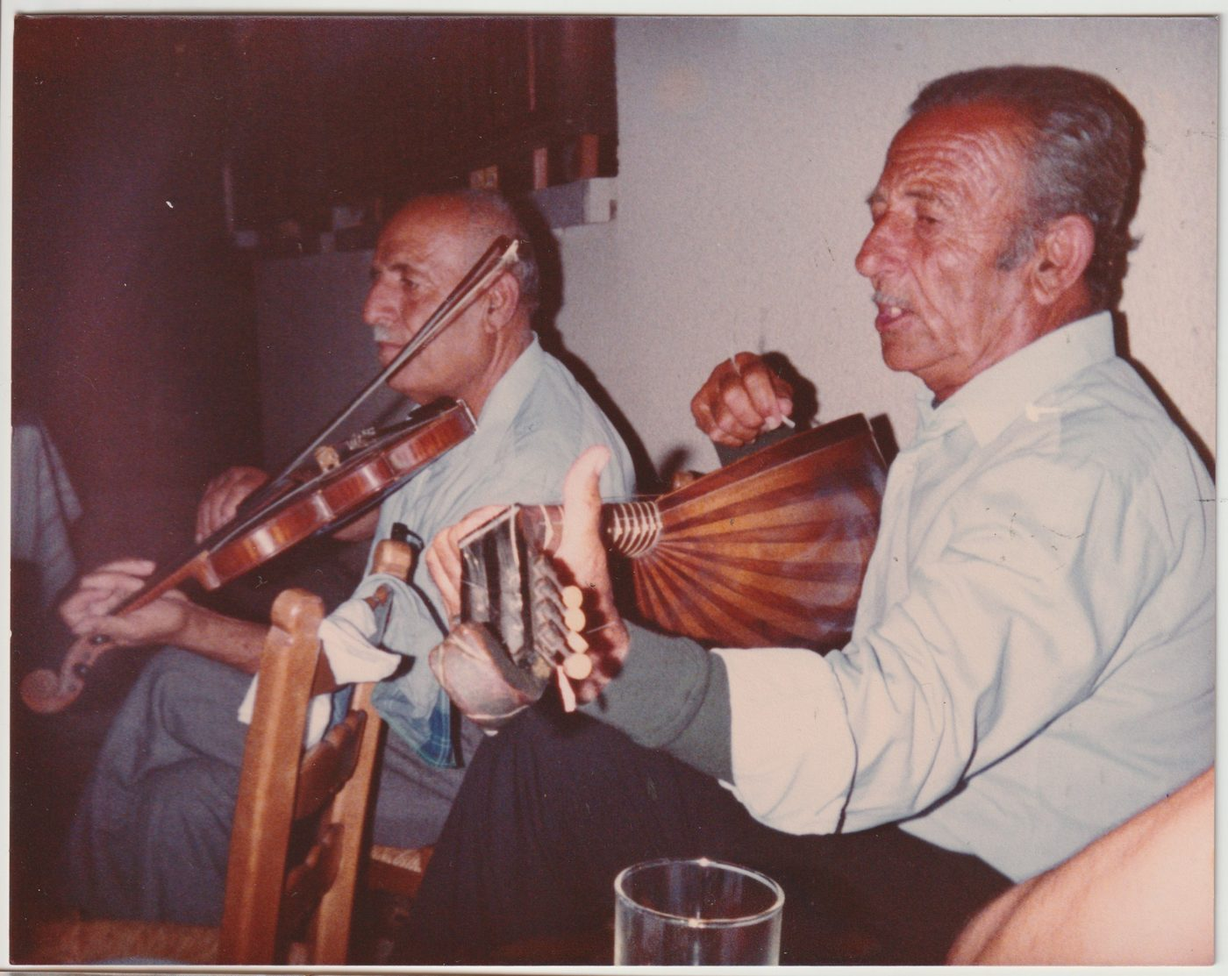
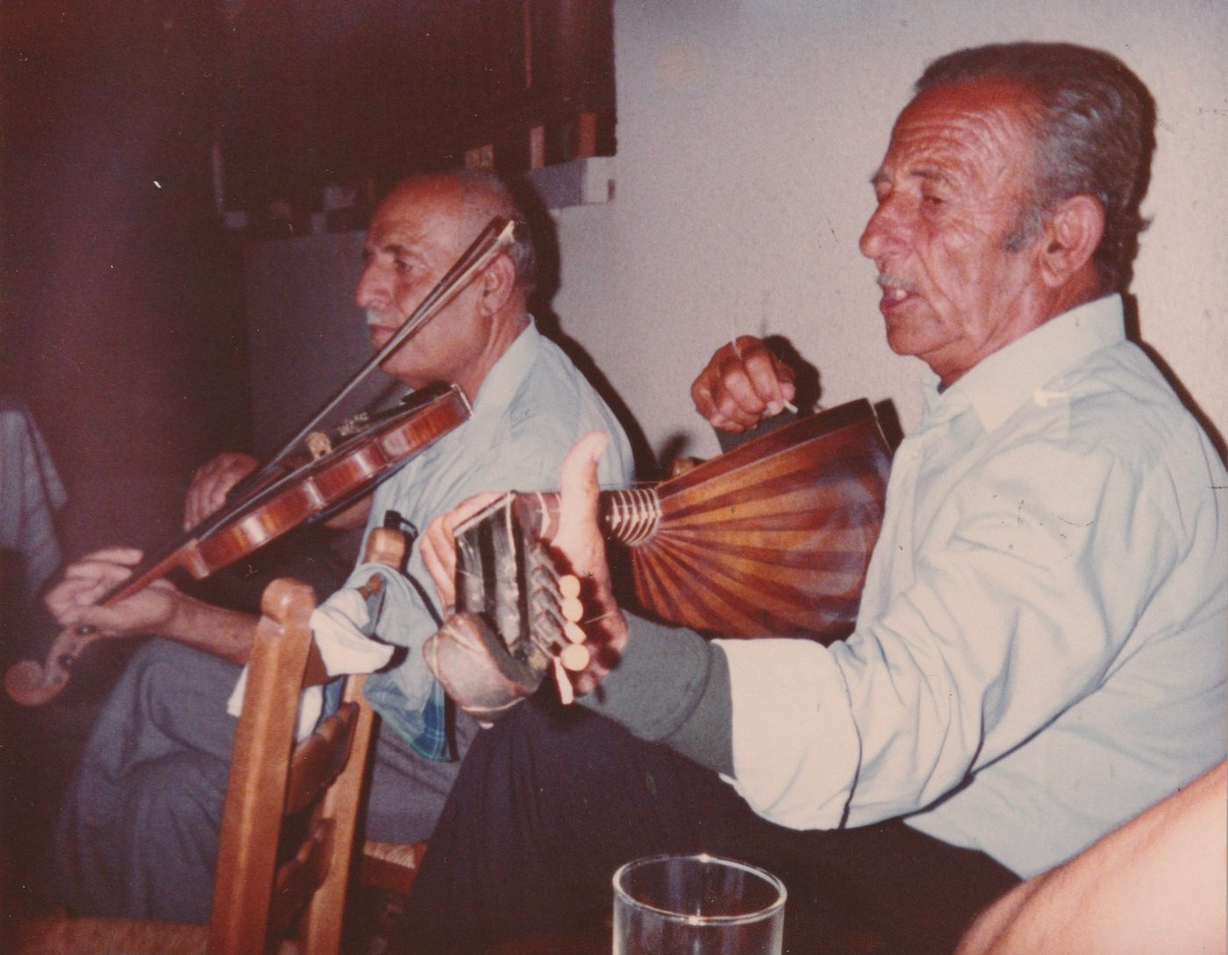
designer feedback: booklet photo crops, final cover, no breaks in credit names

Changed region(s): [[0.0, 0.0, 1.0, 1.0], [0.86, 0.4995, 0.9521, 0.5932], [0.1843, 0.2185, 0.215, 0.2498]]

diff --git a/index.html b/index.html
@@ -59,8 +59,8 @@
     <section class="hero">
       <div class="hero-in">
         <h1 class="cover-title">
-          <img class="cover" src="images/cover.jpg" width="1400" height="1689"
-               alt="Το χώμαν · soil — Συμεών Μερκούρης, Στέλιος Παπαμιχαήλ">
+          <img class="cover" src="images/cover.jpg" width="1400" height="1835"
+               alt="το χώμαν · soil — Συμεών Μερκούρης, Στέλιος Παπαμιχαήλ · Symeon Mercouris, Stelios Papamichael">
         </h1>
       </div>
     </section>
@@ -102,32 +102,32 @@
       <span class="orn a" aria-hidden="true"></span>
       <h2><span lang="el">Συντελεστές</span><span lang="en">Contributors</span></h2>
       <div lang="el">
-        <ul class="roles"><li><span class="k">Μουσική επιμέλεια:</span> Συμεών Μερκούρης, Στέλιος Παπαμιχαήλ</li><li><span class="k">Παραγωγή/διασκευές/ανασυνθέσεις/ενορχηστρώσεις:</span> Συμεών Μερκούρης</li></ul>
+        <ul class="roles"><li><span class="k">Μουσική επιμέλεια:</span> Συμεών&nbsp;Μερκούρης, Στέλιος&nbsp;Παπαμιχαήλ</li><li><span class="k">Παραγωγή/διασκευές/ανασυνθέσεις/ενορχηστρώσεις:</span> Συμεών&nbsp;Μερκούρης</li></ul>
         <h3>Μουσικοί</h3>
-        <ul class="people"><li><b>Συμεών Μερκούρης</b><span class="r">Φωνή, λαούτο (Δ1* κομμάτι 2, 4, 6 Δ2** κομ. 3, 5), κρητικό λαούτο (Δ1 κομ. 8)</span></li><li><b>Στέλιος Παπαμιχαήλ</b><span class="r">Φωνή, λύρα (Δ1 κομ. 2, 4, 8 Δ2 κομ. 1, 3, 9) λαούτο (Δ1 κομ. 5, 8 Δ2 κομ. 2, 4, 8), κρητικό λαούτο (Δ1 κομ. 3)</span></li><li><b>Νικολέττα Δημητρίου</b><span class="r">Φωνή (Δ2 κομ. 5)</span></li><li><b>Παύλος Μιχαηλίδης</b><span class="r">Βιολί (Δ1 κομ. 5, 6 Δ2 κομ. 2, 8)</span></li><li><b>Εύρος Βοσκαρίδης</b><span class="r">Βιολί (Δ2 κομ. 4)</span></li><li><b>Χριστίνα Πολυκάρπου</b><span class="r">Λύρα (Δ2 κομ. 5)</span></li><li><b>Χαράλαμπος Παντελή</b><span class="r">Ταμπουράς (Δ1 κομ. 7 Δ2 κομ. 5, 6), Σάζι (Δ1 κομ. 7), λαούτο (Δ1 κομ. 6)</span></li><li><b>Δημήτρης Πήχας</b><span class="r">Κοντραμπάσο (Δ2 κομ. 1, 4)</span></li><li><b>Κωνσταντίνα Ξενοφώντος</b><span class="r">Ταμπουτσ̆ά (Δ1 κομ. 4)</span></li></ul>
+        <ul class="people"><li><b>Συμεών Μερκούρης</b><span class="r">Φωνή, λαούτο (Δ1*&nbsp;κομμάτι&nbsp;2, 4, 6 Δ2**&nbsp;κομ.&nbsp;3, 5), κρητικό λαούτο (Δ1&nbsp;κομ.&nbsp;8)</span></li><li><b>Στέλιος Παπαμιχαήλ</b><span class="r">Φωνή, λύρα (Δ1&nbsp;κομ.&nbsp;2, 4, 8 Δ2&nbsp;κομ.&nbsp;1, 3, 9) λαούτο (Δ1&nbsp;κομ.&nbsp;5, 8 Δ2&nbsp;κομ.&nbsp;2, 4, 8), κρητικό λαούτο (Δ1&nbsp;κομ.&nbsp;3)</span></li><li><b>Νικολέττα Δημητρίου</b><span class="r">Φωνή (Δ2&nbsp;κομ.&nbsp;5)</span></li><li><b>Παύλος Μιχαηλίδης</b><span class="r">Βιολί (Δ1&nbsp;κομ.&nbsp;5, 6 Δ2&nbsp;κομ.&nbsp;2, 8)</span></li><li><b>Εύρος Βοσκαρίδης</b><span class="r">Βιολί (Δ2&nbsp;κομ.&nbsp;4)</span></li><li><b>Χριστίνα Πολυκάρπου</b><span class="r">Λύρα (Δ2&nbsp;κομ.&nbsp;5)</span></li><li><b>Χαράλαμπος Παντελή</b><span class="r">Ταμπουράς (Δ1&nbsp;κομ.&nbsp;7 Δ2&nbsp;κομ.&nbsp;5, 6), Σάζι (Δ1&nbsp;κομ.&nbsp;7), λαούτο (Δ1&nbsp;κομ.&nbsp;6)</span></li><li><b>Δημήτρης Πήχας</b><span class="r">Κοντραμπάσο (Δ2&nbsp;κομ.&nbsp;1, 4)</span></li><li><b>Κωνσταντίνα Ξενοφώντος</b><span class="r">Ταμπουτσ̆ά (Δ1&nbsp;κομ.&nbsp;4)</span></li></ul>
         <p class="legend">*Δίσκος 1 &nbsp;**Δίσκος 2</p>
         <h3>Φιλικές συμμετοχές</h3>
-        <ul class="people"><li><b>Αντώνης Πουλλής</b><span class="r">Φωνή (Δ1 κομ. 1)</span></li><li><b>Μιχάλης Πουλλής</b><span class="r">Φωνή (Δ2 κομ. 6)</span></li></ul>
+        <ul class="people"><li><b>Αντώνης Πουλλής</b><span class="r">Φωνή (Δ1&nbsp;κομ.&nbsp;1)</span></li><li><b>Μιχάλης Πουλλής</b><span class="r">Φωνή (Δ2&nbsp;κομ.&nbsp;6)</span></li></ul>
         <h3>Ηχοληψία και μάστερινγκ</h3>
-        <ul class="roles"><li><span class="k">Ηχογράφηση/μίξη:</span> Μικαέλα Τσαγγάρη (Elbow Room Studio)</li><li><span class="k">Μάστερινγκ:</span> Μπάρι Χατζ̆ήκυριακου (All Ears Mastering)</li></ul>
+        <ul class="roles"><li><span class="k">Ηχογράφηση/μίξη:</span> Μικαέλα&nbsp;Τσαγγάρη (Elbow&nbsp;Room&nbsp;Studio)</li><li><span class="k">Μάστερινγκ:</span> Μπάρι&nbsp;Χατζ̆ήκυριακου (All&nbsp;Ears&nbsp;Mastering)</li></ul>
         <h3>Κείμενα και επιμέλεια κειμένων</h3>
-        <ul class="roles"><li><span class="k">Έρευνα – κείμενα:</span> Συμεών Μερκούρης</li><li><span class="k">Επιμέλεια/διορθώσεις κυπριακών κειμένων – στίχων:</span> Νικολέττα Δημητρίου</li><li><span class="k">Μετάφραση κειμένων – στίχων:</span> Συμεών Μερκούρης</li><li><span class="k">Επιμέλεια/διορθώσεις μεταφρασμένων κειμένων – στίχων:</span> Δημήτρης Πήχας</li></ul>
+        <ul class="roles"><li><span class="k">Έρευνα – κείμενα:</span> Συμεών&nbsp;Μερκούρης</li><li><span class="k">Επιμέλεια/διορθώσεις κυπριακών κειμένων – στίχων:</span> Νικολέττα&nbsp;Δημητρίου</li><li><span class="k">Μετάφραση κειμένων – στίχων:</span> Συμεών&nbsp;Μερκούρης</li><li><span class="k">Επιμέλεια/διορθώσεις μεταφρασμένων κειμένων – στίχων:</span> Δημήτρης&nbsp;Πήχας</li></ul>
         <h3>Εικαστική επιμέλεια και σχεδιασμός</h3>
-        <ul class="roles"><li><span class="k">Χαρακτικό - πετρογραφία εξωφύλλου, λεπτομέρειες από χαρακτικά έργα στο ένθετο:</span> γιώργος Α. Κωνσταντίνου</li><li><span class="k">Γραφιστική επιμέλεια/σχεδιασμός:</span> Πόπη Πισσουρίου</li><li><span class="k">Φωτογραφίες:</span> Κατερίνα Δημητρίου</li><li><span class="k">Επιμέλεια φωτογραφιών:</span> Έμμα Λουίζ Χαραλάμπους</li><li><span class="k">Σχεδιασμός ιστοσελίδας:</span> Γιάννης Παχίτας</li></ul>
+        <ul class="roles"><li><span class="k">Χαρακτικό - πετρογραφία εξωφύλλου, λεπτομέρειες από χαρακτικά έργα στο ένθετο:</span> γιώργος Α.&nbsp;Κωνσταντίνου</li><li><span class="k">Γραφιστική επιμέλεια/σχεδιασμός:</span> Πόπη&nbsp;Πισσουρίου</li><li><span class="k">Φωτογραφίες:</span> Κατερίνα&nbsp;Δημητρίου</li><li><span class="k">Επιμέλεια φωτογραφιών:</span> Έμμα&nbsp;Λουίζ&nbsp;Χαραλάμπους</li><li><span class="k">Σχεδιασμός ιστοσελίδας:</span> Γιάννης&nbsp;Παχίτας</li></ul>
       </div>
       <div lang="en">
-        <ul class="roles"><li><span class="k">Musical direction:</span> Symeon Mercouris, Stelios Papamichael</li><li><span class="k">Production/arrangements/re-compositions/orchestration:</span> Symeon Mercouris</li></ul>
+        <ul class="roles"><li><span class="k">Musical direction:</span> Symeon&nbsp;Mercouris, Stelios&nbsp;Papamichael</li><li><span class="k">Production/arrangements/re-compositions/orchestration:</span> Symeon&nbsp;Mercouris</li></ul>
         <h3>Musicians</h3>
-        <ul class="people"><li><b>Symeon Mercouris</b><span class="r">Vocals, lute (D1* tracks 2, 4, 6; D2** tracks 3, 5), Cretan lute (D1 track 8)</span></li><li><b>Stelios Papamichael</b><span class="r">Vocals, lyra (D1 tracks 2, 4, 8; D2 tracks 1, 3, 9), lute (D1 tracks 5, 8; D2 tracks 2, 4, 8), Cretan lute (D1 track 3)</span></li><li><b>Nicoletta Demetriou</b><span class="r">Vocals (D2 track 5)</span></li><li><b>Pavlos Michaelides</b><span class="r">Violin (D1 tracks 5, 6; D2 tracks 2, 8)</span></li><li><b>Evros Voskarides</b><span class="r">Violin (D2 track 4)</span></li><li><b>Christina Polycarpou</b><span class="r">Lyra (D2 track 5)</span></li><li><b>Charalambos Panteli</b><span class="r">Tambouras (D1 track 7; D2 tracks 5, 6), saz (D1 track 7), lute (D1 track 6)</span></li><li><b>Dimitris Pichas</b><span class="r">Double bass (D2 tracks 1, 4)</span></li><li><b>Konstantina Xenofontos</b><span class="r">Percussion (D1, track 4)</span></li></ul>
+        <ul class="people"><li><b>Symeon Mercouris</b><span class="r">Vocals, lute (D1*&nbsp;tracks&nbsp;2, 4, 6; D2**&nbsp;tracks&nbsp;3, 5), Cretan lute (D1&nbsp;track&nbsp;8)</span></li><li><b>Stelios Papamichael</b><span class="r">Vocals, lyra (D1&nbsp;tracks&nbsp;2, 4, 8; D2&nbsp;tracks&nbsp;1, 3, 9), lute (D1&nbsp;tracks&nbsp;5, 8; D2&nbsp;tracks&nbsp;2, 4, 8), Cretan lute (D1&nbsp;track&nbsp;3)</span></li><li><b>Nicoletta Demetriou</b><span class="r">Vocals (D2&nbsp;track&nbsp;5)</span></li><li><b>Pavlos Michaelides</b><span class="r">Violin (D1&nbsp;tracks&nbsp;5, 6; D2&nbsp;tracks&nbsp;2, 8)</span></li><li><b>Evros Voskarides</b><span class="r">Violin (D2&nbsp;track&nbsp;4)</span></li><li><b>Christina Polycarpou</b><span class="r">Lyra (D2&nbsp;track&nbsp;5)</span></li><li><b>Charalambos Panteli</b><span class="r">Tambouras (D1&nbsp;track&nbsp;7; D2&nbsp;tracks&nbsp;5, 6), saz (D1&nbsp;track&nbsp;7), lute (D1&nbsp;track&nbsp;6)</span></li><li><b>Dimitris Pichas</b><span class="r">Double bass (D2&nbsp;tracks&nbsp;1, 4)</span></li><li><b>Konstantina Xenofontos</b><span class="r">Percussion (D1, track 4)</span></li></ul>
         <p class="legend">*D1 = Disc 1 &nbsp;**D2 = Disc 2</p>
         <h3>Guest appearances</h3>
-        <ul class="people"><li><b>Antonis Poullis</b><span class="r">Vocals (D1 track 1)</span></li><li><b>Michalis Poullis</b><span class="r">Vocals (D2 track 6)</span></li></ul>
+        <ul class="people"><li><b>Antonis Poullis</b><span class="r">Vocals (D1&nbsp;track&nbsp;1)</span></li><li><b>Michalis Poullis</b><span class="r">Vocals (D2&nbsp;track&nbsp;6)</span></li></ul>
         <h3>Recording and mastering</h3>
-        <ul class="roles"><li><span class="k">Recording and mixing:</span> Mikaela Tsangari (Elbow Room Studio)</li><li><span class="k">Mastering:</span> Bari Hadjikyriacou (All Ears Mastering)</li></ul>
+        <ul class="roles"><li><span class="k">Recording and mixing:</span> Mikaela&nbsp;Tsangari (Elbow&nbsp;Room&nbsp;Studio)</li><li><span class="k">Mastering:</span> Bari&nbsp;Hadjikyriacou (All&nbsp;Ears&nbsp;Mastering)</li></ul>
         <h3>Texts and editing</h3>
-        <ul class="roles"><li><span class="k">Research and texts:</span> Symeon Mercouris</li><li><span class="k">Editing/proofreading of texts and lyrics (Cypriot):</span> Nicoletta Demetriou</li><li><span class="k">Translation of texts and lyrics:</span> Symeon Mercouris</li><li><span class="k">Editing/proofreading of translated texts and lyrics (English):</span> Dimitris Pichas</li></ul>
+        <ul class="roles"><li><span class="k">Research and texts:</span> Symeon&nbsp;Mercouris</li><li><span class="k">Editing/proofreading of texts and lyrics (Cypriot):</span> Nicoletta&nbsp;Demetriou</li><li><span class="k">Translation of texts and lyrics:</span> Symeon&nbsp;Mercouris</li><li><span class="k">Editing/proofreading of translated texts and lyrics (English):</span> Dimitris&nbsp;Pichas</li></ul>
         <h3>Artwork and design</h3>
-        <ul class="roles"><li><span class="k">Album cover stone engraving; details from engraved works in the album booklet:</span> giorgos A. Konstantinou</li><li><span class="k">Graphic design:</span> Popi Pissouriou</li><li><span class="k">Photography:</span> Katerina Demetriou</li><li><span class="k">Photo editing:</span> Emma Louise Charalambous</li><li><span class="k">Website design:</span> Yiannis Pahitas</li></ul>
+        <ul class="roles"><li><span class="k">Album cover stone engraving; details from engraved works in the album booklet:</span> giorgos A.&nbsp;Konstantinou</li><li><span class="k">Graphic design:</span> Popi&nbsp;Pissouriou</li><li><span class="k">Photography:</span> Katerina&nbsp;Demetriou</li><li><span class="k">Photo editing:</span> Emma&nbsp;Louise&nbsp;Charalambous</li><li><span class="k">Website design:</span> Yiannis&nbsp;Pahitas</li></ul>
       </div>
     </section>
 
@@ -158,13 +158,13 @@
       <h2><span lang="el">Φωτογραφίες</span><span lang="en">Photos</span></h2>
       <p class="side lead"><span lang="el">Στιγμιότυπα από τις συνεντεύξεις (2024 - 2026)</span><span lang="en">Moments from the interviews (2024 - 2026)</span></p>
       <div class="gallery">
-        <figure aria-label="Μαζί με τον Μιχάλη Πουλλή (αριστερά) και τον Αντώνη Πουλλή (κέντρο)"><img src="images/interviews/17.jpg" width="1600" height="1067" loading="lazy" alt=""><figcaption><span lang="el">Μαζί με τον Μιχάλη Πουλλή (αριστερά) και τον Αντώνη Πουλλή (κέντρο)</span><span lang="en">With Michalis Poullis (left) and Antonis Poullis (centre)</span></figcaption></figure>
+        <figure aria-label="Μαζί με τον Μιχάλη Πουλλή (αριστερά) και τον Αντώνη Πουλλή (κέντρο)"><img src="images/interviews/17.jpg" width="1600" height="1061" loading="lazy" alt=""><figcaption><span lang="el">Μαζί με τον Μιχάλη Πουλλή (αριστερά) και τον Αντώνη Πουλλή (κέντρο)</span><span lang="en">With Michalis Poullis (left) and Antonis Poullis (centre)</span></figcaption></figure>
         <figure aria-label="Πρωινός καφές με τον Γιώργο Πουλλή στο σπίτι μου στο Τσέρι"><img src="images/interviews/18.jpg" width="1600" height="1067" loading="lazy" alt=""><figcaption><span lang="el">Πρωινός καφές με τον Γιώργο Πουλλή στο σπίτι μου στο Τσέρι</span><span lang="en">Morning coffee with Giorgos Poullis at my home in Tseri</span></figcaption></figure>
         <figure aria-label="Με την Ελένη Πιττάτζ̆η στο σπίτι της στο Παραλίμνι"><img src="images/interviews/19.jpg" width="1600" height="1067" loading="lazy" alt=""><figcaption><span lang="el">Με την Ελένη Πιττάτζ̆η στο σπίτι της στο Παραλίμνι</span><span lang="en">With Eleni Pittatzi at her home in Paralimni</span></figcaption></figure>
         <figure aria-label="Με τον Γιώργο Πριγκόπουλλο στο περβόλι του στην Άχνα"><img src="images/interviews/20.jpg" width="1600" height="1067" loading="lazy" alt=""><img src="images/interviews/21.jpg" width="1600" height="1067" loading="lazy" alt=""><img src="images/interviews/22.jpg" width="1600" height="1067" loading="lazy" alt=""><figcaption><span lang="el">Με τον Γιώργο Πριγκόπουλλο στο περβόλι του στην Άχνα</span><span lang="en">With Giorgos Prigkopoullos in his orchard in Achna</span></figcaption></figure>
         <figure aria-label="Με την Ελένη Πιττιρή Σαλούτα (κέντρο) και την Μαργαρίτα Πιττιρή Δημητρουδιού (δεξιά) στο σπίτι τους στο Παραλίμνι"><img src="images/interviews/23.jpg" width="1600" height="1067" loading="lazy" alt=""><figcaption><span lang="el">Με την Ελένη Πιττιρή Σαλούτα (κέντρο) και την Μαργαρίτα Πιττιρή Δημητρουδιού (δεξιά) στο σπίτι τους στο Παραλίμνι</span><span lang="en">With Eleni Pittiri Salouta (centre) and Margarita Pittiri Demetroudiou (right) at their home in Paralimni</span></figcaption></figure>
         <figure aria-label="Με την Μαρία Ττάκκα Δημητρίου στο περβόλι της στο Λιοπέτρι"><img src="images/interviews/24.jpg" width="1600" height="1067" loading="lazy" alt=""><figcaption><span lang="el">Με την Μαρία Ττάκκα Δημητρίου στο περβόλι της στο Λιοπέτρι</span><span lang="en">With Maria Ttakka Demetriou in her orchard in Liopetri</span></figcaption></figure>
-        <figure aria-label="Με τον Παναγιώτη Παναγιώτου στο σπίτι του στην Έμπα (Πετρίθκια)"><img src="images/interviews/25.jpg" width="1600" height="898" loading="lazy" alt=""><figcaption><span lang="el">Με τον Παναγιώτη Παναγιώτου στο σπίτι του στην Έμπα (Πετρίθκια)</span><span lang="en">With Panayiotis Panayiotou at his home in Empa (Petridia)</span></figcaption></figure>
+        <figure aria-label="Με τον Παναγιώτη Παναγιώτου στο σπίτι του στην Έμπα (Πετρίθκια)"><img src="images/interviews/25.jpg" width="1600" height="1061" loading="lazy" alt=""><figcaption><span lang="el">Με τον Παναγιώτη Παναγιώτου στο σπίτι του στην Έμπα (Πετρίθκια)</span><span lang="en">With Panayiotis Panayiotou at his home in Empa (Petridia)</span></figcaption></figure>
         <figure aria-label="Με τον Παναγιώτη Παναγιώτου ακούγοντας την Φωνή Παφίτισσα όπως την ηχογραφήσαμε"><img src="images/interviews/26.jpg" width="1600" height="1066" loading="lazy" alt=""><figcaption><span lang="el">Με τον Παναγιώτη Παναγιώτου ακούγοντας την Φωνή Παφίτισσα όπως την ηχογραφήσαμε</span><span lang="en">With Panayiotis Panayiotou listening to the Pafitissa Tune as we recorded it</span></figcaption></figure>
         <figure aria-label="Με τον Παναγιώτη Παναγιώτου και τον Αντρέα Χατζ̆ηαχιλλέως κάτω που την συκαμιάν στην αυλή του Παναγιώτου"><img src="images/interviews/27.jpg" width="1600" height="1067" loading="lazy" alt=""><img src="images/interviews/27a.jpg" width="1600" height="1067" loading="lazy" alt=""><figcaption><span lang="el">Με τον Παναγιώτη Παναγιώτου και τον Αντρέα Χατζ̆ηαχιλλέως κάτω που την συκαμιάν στην αυλή του Παναγιώτου</span><span lang="en">With Panayiotis Panayiotou (left) and Andreas Hadjiachilleos (centre) under the mulberry tree in Panayiotou’s courtyard</span></figcaption></figure>
         <figure aria-label="Με τον Αντρέα Χατζ̆ηαχιλλέως στα σκαλάκια του σπιτιού του στην Λεμεσό"><img src="images/interviews/28.jpg" width="1600" height="1067" loading="lazy" alt=""><figcaption><span lang="el">Με τον Αντρέα Χατζ̆ηαχιλλέως στα σκαλάκια του σπιτιού του στην Λεμεσό</span><span lang="en">With Andreas Hadjiachilleos on the steps of his home in Limassol</span></figcaption></figure>

diff --git a/js/album-data.js b/js/album-data.js
@@ -3228,8 +3228,8 @@ window.__ALBUM_DATA__ = {
    },
    {
     "src": "images/songs/01b.jpg",
-    "w": 1284,
-    "h": 877,
+    "w": 1400,
+    "h": 954,
     "el": "Οικογένεια Tζ̆ιαννή Πουλλή. O Aντώνης Πουλλής τρίτος από αριστερά. Αριστερά προς δεξιά: Γιώργος Πουλλής, Σολωμής Πουλλής, Αντώνης Πουλλής, Λίζα Πουλλή Χατζηχάννα, Μαριάννα Πουλλή, Μιχάλης Πουλλής και Τζ̆ιαννής Πουλλής",
     "en": "Τziannis Poullis’ family. Αntonis Poullis third from the left. Left to right: Giorgos Poullis, Solomis Poullis, Antonis Poullis, Liza Poulli Hatzihannas, Marianna Poulli, Michalis Poullis and Tziannis Poullis",
     "at": 2
@@ -3237,17 +3237,19 @@ window.__ALBUM_DATA__ = {
   ],
   "song-2": [
    {
-    "src": "images/songs/02a.jpg",
+    "src": "images/songs/02a.webp",
     "w": 1400,
-    "h": 983,
+    "h": 970,
+    "cut": true,
     "el": "Λευτέρης Οικονόμου «Στέκκος» (αριστερά) και ο αδελφός του, Λουκάς Οικονόμου (δεξιά)",
     "en": "Lefteris Oikonomou (Stekkos) (left) and his brother, Loukas Oikonomou (right)",
     "at": 4
    },
    {
-    "src": "images/songs/02b.jpg",
+    "src": "images/songs/02b.webp",
     "w": 1400,
-    "h": 1376,
+    "h": 1369,
+    "cut": true,
     "el": "Στέκκος χορεύει. Χριστάκης Πιττιρής (βιολί), Λευτέρης Μέρτακκας «Λευτεράς» (λαούτο) και Γεώργιος Ευσταθίου «Φόρσος» (ακκορντεόν)",
     "en": "Stekkos dancing. Christakis Pittiris (violin), Lefteris Mertakkas “Lefteras” (lute) and Georgios Efstathiou “Forsos” (accordion)",
     "at": 7
@@ -3255,24 +3257,26 @@ window.__ALBUM_DATA__ = {
   ],
   "song-6": [
    {
-    "src": "images/songs/06a.jpg",
+    "src": "images/songs/06a.webp",
     "w": 1400,
-    "h": 983,
+    "h": 981,
+    "cut": true,
     "el": "Αντώνης Χ'Αχιλλέως «Βλόκκος» (βιολί) και Χριστάκης από Άρμου «Ρουσσής» ή «Διπλόσ̆ειλος» (λαούτο)",
     "en": "Antonis Hadjiachilleos “Vlokkos” (violin) and Christakis from Armou “Roussis” or “Diplosheilos” (lute)",
     "at": 3
    },
    {
-    "src": "images/songs/06b.jpg",
-    "w": 907,
+    "src": "images/songs/06b.webp",
+    "w": 896,
     "h": 1400,
+    "cut": true,
     "el": "Αντώνης Χ'Αχιλλέως με την γυναίκα του Ελένη Πιστέντη",
     "en": "Αntonis Hadjiachilleos with his wife Eleni Pistenti",
     "at": 9
    },
    {
     "src": "images/songs/06c.jpg",
-    "w": 1017,
+    "w": 977,
     "h": 1400,
     "el": "Ξενής Πάτσαλος",
     "en": "Xenis Patsalos",
@@ -3281,7 +3285,7 @@ window.__ALBUM_DATA__ = {
    {
     "src": "images/songs/06d.jpg",
     "w": 1400,
-    "h": 1013,
+    "h": 1011,
     "el": "Παύλος Πιττάτζ̆ης",
     "en": "Pavlos Pittatzis",
     "at": 30
@@ -3289,14 +3293,14 @@ window.__ALBUM_DATA__ = {
    {
     "src": "images/songs/06e.jpg",
     "w": 1400,
-    "h": 995,
+    "h": 1008,
     "el": "Στον καφενέ του Πυλιώτη. Χορεύει ο Γιώργος Μάγκας (μπροστά). Ταίρι του στον χορό ο Παύλος Πιττάτζης (πίσω). Λευτέρης Μέρτακκας (λαούτο).",
     "en": "Αt Pyliotis’ coffeehouse. Giorgos Magkas is dancing (foreground). His dancing partner is Pavlos Pittatzis (background). Lefteris Mertakkas (lute).",
     "at": 32
    },
    {
     "src": "images/songs/06f.jpg",
-    "w": 999,
+    "w": 960,
     "h": 1400,
     "el": "Ο Παύλος Πιττάτζης (δεξιά) με τους φίλους του Ξενή Τσιερκέζου «Ξενιάς» (κέντρο) και Γιώργο Καλημέρα (αριστερά)",
     "en": "Pavlos Pittatzis (right) with his friends Xenis Tsierkezou “Xenias” (centre) and Giorgos Kalimeras (left)",
@@ -3306,7 +3310,7 @@ window.__ALBUM_DATA__ = {
   "song-7": [
    {
     "src": "images/songs/07.jpg",
-    "w": 828,
+    "w": 933,
     "h": 1400,
     "el": "Τζιαννής Πουλλής",
     "en": "Τziannis Poullis",
@@ -3317,15 +3321,15 @@ window.__ALBUM_DATA__ = {
    {
     "src": "images/songs/09a.jpg",
     "w": 1400,
-    "h": 1113,
+    "h": 1089,
     "el": "Αντρέας Χρίστου Πιττιρής (λαούτο) και Αντώνης Αρτυματάς «Κελέφτας» (βιολί)",
     "en": "Αndreas Christou Pittiris (lute) and Antonis Artymatas “Keleftas” (violin)",
     "at": 5
    },
    {
     "src": "images/songs/09b.jpg",
-    "w": 1072,
-    "h": 836,
+    "w": 1400,
+    "h": 1089,
     "el": "Αριστερά προς δεξιά: Αντρέας Χρίστου Πιττιρής, Aδάμος Στάθη Κουζαρίδης",
     "en": "Left to right: Andreas Christou Pittiris and Adamos Stathi Kouzarides",
     "at": 5
@@ -3334,7 +3338,7 @@ window.__ALBUM_DATA__ = {
   "song-12": [
    {
     "src": "images/songs/12a.jpg",
-    "w": 990,
+    "w": 967,
     "h": 1400,
     "el": "Νικόλας Κούβαρος",
     "en": "Nikolas Kouvaros",
@@ -3352,8 +3356,8 @@ window.__ALBUM_DATA__ = {
   "song-14": [
    {
     "src": "images/songs/14a.jpg",
-    "w": 1284,
-    "h": 1196,
+    "w": 1400,
+    "h": 1243,
     "el": "Γάμος στην Αγιά Μαρίνα. Μπροστά δεξιά προς αριστερά: Τζ̆ιαννής Πουλλής (λαούτο), Αντώνης Πουλλής (του Τζ̆ιαννή), Αντώνης Πουλλής (του Πίσσα), Αντώνης Πουλλής (του Γιώρκου), Αντώνης Παύλου και Γιάννης Πίπης από το Αργάκι Μόρφου (βιολί)",
     "en": "Wedding in Ayia Marina. Front row from right to left: Tziannis Poullis (lute), Antonis Poullis (of Tziannis), Antonis Poullis (of Pissas), Antonis Poullis (of Giorgos), Antonis Pavlou and Giannis Pipis from Argaki Morfou (violin)",
     "at": 3
@@ -3370,8 +3374,8 @@ window.__ALBUM_DATA__ = {
   "song-15": [
    {
     "src": "images/songs/15a.jpg",
-    "w": 680,
-    "h": 874,
+    "w": 1085,
+    "h": 1400,
     "el": "Νεόφυτος Χατζ̆ηνικηφόρου «Σ̆ίσ̆ης»",
     "en": "Neofytos Hadjinikiforou (Shishis)",
     "at": 5
@@ -3388,7 +3392,7 @@ window.__ALBUM_DATA__ = {
   "song-16": [
    {
     "src": "images/songs/16b.jpg",
-    "w": 964,
+    "w": 933,
     "h": 1400,
     "el": "Παναγιώτης Παναγιώτου",
     "en": "Panayiotis Panayiotou",
@@ -3396,7 +3400,7 @@ window.__ALBUM_DATA__ = {
    },
    {
     "src": "images/songs/16c.jpg",
-    "w": 951,
+    "w": 933,
     "h": 1400,
     "el": "Παναγιώτης Παναγιώτου",
     "en": "Panayiotis Panayiotou",
@@ -3404,7 +3408,7 @@ window.__ALBUM_DATA__ = {
    },
    {
     "src": "images/songs/16d.jpg",
-    "w": 1118,
+    "w": 1108,
     "h": 1400,
     "el": "Παναγιώτης Παναγιώτου με την γυναίκα του Ελένη Παναγιώτου",
     "en": "Panayiotis Panayiotou with his wife Eleni Panayiotou",

diff --git a/js/songs.js b/js/songs.js
@@ -44,12 +44,27 @@
     return h.replace(/(\d)(ο|η|ον|ης|st|nd|rd|th)(?![A-Za-zͰ-Ͽἀ-῿])/g, '$1<sup class="ord">$2</sup>');
   }
 
+  // Designer's rule for credits (18 Nov): a line may not break inside a person's
+  // name or leave an ordinal on its own. Non-breaking spaces join consecutive
+  // capitalised words (Συμεών Μερκούρη, Μιχάλης (Μισ̆ιέλλης) Πουλλής), an ordinal
+  // to the word after it (2η στροφή, 1η, 3η), "και/and" to the ordinal after it, and a
+  // middle dot to the word before it.
+  var CAP = 'A-ZΆΈΉΊΌΎΏΑ-Ϋ', NB = ' ';
+  var NAME = new RegExp('(^|\\s)(\\(?['+CAP+'][^\\s,;·.]*) (?=\\(?['+CAP+'])', 'g');
+  function keep(h){
+    var prev;
+    do { prev = h; h = h.replace(NAME, '$1$2'+NB); } while (h !== prev);
+    return h.replace(/(\d(?:ο|η|ον|ης|st|nd|rd|th),?) /g, '$1'+NB)
+      .replace(/(^|\s)(και|and) (?=\d)/g, '$1$2'+NB)
+      .replace(/ ·/g, NB+'·');
+  }
+
   function credits(l, list){
     return (list||[]).map(function(line){
       var i = line.indexOf(':');
       var inner = i > -1
-        ? '<span class="k">'+esc(line.slice(0, i+1))+'</span> <span class="v">'+ordinals(esc(line.slice(i+1).trim()))+'</span>'
-        : ordinals(esc(line));
+        ? '<span class="k">'+esc(line.slice(0, i+1))+'</span> <span class="v">'+ordinals(keep(esc(line.slice(i+1).trim())))+'</span>'
+        : ordinals(keep(esc(line)));
       return '<li lang="'+l+'">'+inner+'</li>';
     }).join('');
   }
@@ -60,9 +75,10 @@
   }
 
   // A photo with its caption in the current language.
+  // cut: the designer kept the print's uneven edge (a transparent .webp), so no placeholder background.
   function figure(p, l){
     var cap = esc(p[l] || p.el);
-    return '<figure class="ph'+(p.h > p.w ? ' tall' : '')+'"><img src="'+p.src+'" width="'+p.w+'" height="'+p.h+'" loading="lazy" alt="'+cap+'">'+
+    return '<figure class="ph'+(p.h > p.w ? ' tall' : '')+(p.cut ? ' cut' : '')+'"><img src="'+p.src+'" width="'+p.w+'" height="'+p.h+'" loading="lazy" alt="'+cap+'">'+
       '<figcaption>'+cap+'</figcaption></figure>';
   }
 

diff --git a/css/style.css b/css/style.css
@@ -189,6 +189,7 @@ main{display:block}
 .lyrics .tr{font-weight:400;color:var(--muted);margin:-.6rem 0 1.6rem;font-size:1.02rem;line-height:1.5}
 .ph{margin:2.2rem 0 2.4rem}
 .ph img{width:100%;background:var(--rule)}
+.ph.cut img{background:none}
 .ph.tall img{width:auto;max-width:100%;max-height:34rem}
 .ph figcaption{margin-top:.6rem;font-size:.92rem;font-style:italic;color:var(--muted);line-height:1.4}
 sup.fn{font-size:.68em;line-height:0;margin-left:.05em}

diff --git a/CLAUDE.md b/CLAUDE.md
@@ -22,6 +22,7 @@ Keep the text verbatim. It is in Cypriot dialect; spellings that look like typos
 - **Lyrics are bold, not italic** (owner's request). In English mode each Greek stanza is followed by its English translation in lighter text; in Greek mode only the Greek shows. No comma at the end of a lyric line (owner, 14 Nov). Lyric footnotes follow the language: in English mode the Greek lyric markers and notes are hidden (they carry `lang="el"`) and only `lyricNotesEn` shows.
 - **Releases** (decided 13 Nov): two singles come out before the album, and the site follows them, one version live at a time, all from `main` (no release branches). `js/release.js` sets `RELEASE` to `single1` (intro, song 6 «Τα στεφανώματα», contact), `single2` (intro, song 6 plus a second song still to be decided, contact) or `full`. Moving to the next release is a one-line commit. Unreleased songs are only hidden; their text is still in `album-data.js`, which the owner is fine with.
 - **Ordinals in song credits** (1ο, 3η, 1st, 2nd…) are shown with the ending in superscript. This is done at render time in `songs.js` (`ordinals()`); the data stays plain.
+- **No breaks inside names or after ordinals in credits** (designer, 18 Nov): `keep()` in `songs.js` puts non-breaking spaces between capitalised words of a name, after an ordinal ("2η στροφή", "1η, 3η"), after "και/and" before an ordinal, and before " ·". In Συντελεστές the same is done by hand with `&nbsp;` in `index.html` (names in the role lines, "Δ1 κομ. 2" / "D1 track 2").
 
 ## How the code works
 
@@ -40,7 +41,7 @@ Keep the text verbatim. It is in Cypriot dialect; spellings that look like typos
 - `js/site.js`: language toggle (`html[data-lang]`, saved in localStorage as `site-lang`, default `el`; the inline script in `index.html` sets it before first paint, and `?lang=en` works), the ochre `.bar.solid` header after the cover scrolls away, the copyright popup (`<dialog id="legal">`, opened from the footer link), and the mobile menu.
 - Static HTML in `index.html`: intro note, Συντελεστές (separate `lang="el"` and `lang="en"` blocks, built from booklet pp. 10–11 and the contributors docx), Ευχαριστίες (dedication «Στον παπάν μου, Σπύρον (1954-2011)» on top; the English dedication is Claude's translation), Φωτογραφίες (gallery of `images/interviews/`, captions from the zip index), Αγορά (buy section, shown in every release including the singles: a button to a Stripe Payment Link, hosted checkout, no backend; the wording is Claude's), contact, footer and the legal dialog.
 - Bilingual text uses paired `lang="el"` / `lang="en"` elements, toggled by the rules at the top of `css/style.css`. `.lyrics[lang="el"]` is exempt, so the Greek lyrics show in English mode too.
-- Images: `images/cover.jpg` (placeholder render of the cover), `images/songs/` (23 track photos, max 1400px), `images/interviews/` (17 interview photos, max 1600px), `images/ornament-*.png` (the two used as section ornaments) and `images/ornaments/` (16 ornaments extracted from draft 8 plus the cover stone engraving; not used on the page yet).
+- Images: `images/cover.jpg` (the designer's final booklet cover, 18 Nov, white print edge trimmed), `images/songs/` (23 track photos, max 1400px, as cropped in the booklet by the designer; 02a, 02b, 06a and 06b are transparent `.webp` with the print's uneven edge, marked `cut: true` in `photos`, which drops the grey placeholder background), `images/interviews/` (17 interview photos, max 1600px), `images/ornament-*.png` (the two used as section ornaments) and `images/ornaments/` (16 ornaments extracted from draft 8 plus the cover stone engraving; not used on the page yet).
 
 ## The Cypriot breve (U+0306): read this before touching fonts
 
@@ -77,9 +78,13 @@ History of attempts:
 7. **Consolidated feedback** (13 Nov 2026, Claude Code, from the email "comments: to homan"): justified text, inset interview passages, page numbers turned into song links, two-disc index, sign-off on two lines, lowercase "to homan" in nav and footer, "Acknowledgements" in the nav, merged English artwork/photography credits, interview photo 32 removed, footnote target no longer recoloured, song 16 couplet no longer centred.
 8. **Feedback part 4** (15 Nov 2026, Claude Code, from "Re: comments: to homan" of 14 Nov): Margarita "right" in photo 23, no line-final commas in lyrics, Greek lyric notes hidden in English, song 4's last couplet one stanza, footnote cross-references linked (`{a song-6-fn13-en}`). The translator's "See fn. 10" / "fn. 11" pointed at the tourkópoulos and glentzés notes, which are 13 and 14 on the site, so the text now says 13 and 14; the Greek "(σ. 40)" in song 12's note 5 was dropped; only "υποσημείωση 1" is linked, not the song title (owner, 16 Nov).
 
+## Conversation history addendum
+
+9. **Designer's feedback** (19 Nov 2026, Claude Code, from Popi's email "gia to site" of 18 Nov): booklet photo crops, final cover, no line breaks inside names or after ordinals in credits.
+
 ## Open items
 
-- **Real cover artwork** (waiting on the designer); `images/cover.jpg` is a render of the PDF cover. The stone engraving alone is in `images/ornaments/cover-stone.png` if the title should become live text.
+- **Designer's files of 18 Nov** (`wetransfer_for-site_2026-11-18_1157.zip` in the parent folder): cover, photo crops and two interview recrops (`interviews/17.jpg`, `25.jpg`) are in. Not used yet: `to homan no text.jpg` (artwork without text), `to homan title.png` / `title caramel.png` (title lettering) and the 3000px Spotify square (Open Graph candidate). The designer asks to do any resizing/recomposition of artwork herself.
 - **Track numbering:** the index and song pages follow the booklet's two CDs (Δίσκος 1: songs 1–8, Δίσκος 2: 9–17, numbered per disc; `DISC1` in `songs.js`). The `#song-N` ids still run 1–17.
 - **Possible PDF typos left as-is** for the artist: "τζ̆ιαι Πόλην" (song 13 lyrics), "Συγεγκριμένα" (song 16), "εκουβένγκιασα" (intro); "Κάτω στη Ρόδον" on the song page vs "Κάτω στην Ρόδον" in the booklet's track list. Latin look-alike letters inside some Greek words (e.g. "Aντώνης" with a Latin A) are also as in the source.
 - **Caption differences** between the photo index and the booklet: photo 23 (Μαργαρίτα is "δεξιά"/"right", as in the booklet; owner confirmed 14 Nov), photo 17 ("Μαζί με" vs "Με"). The interview-section subtitle fixes the booklet's misspelling "συνεντέυξεις".
